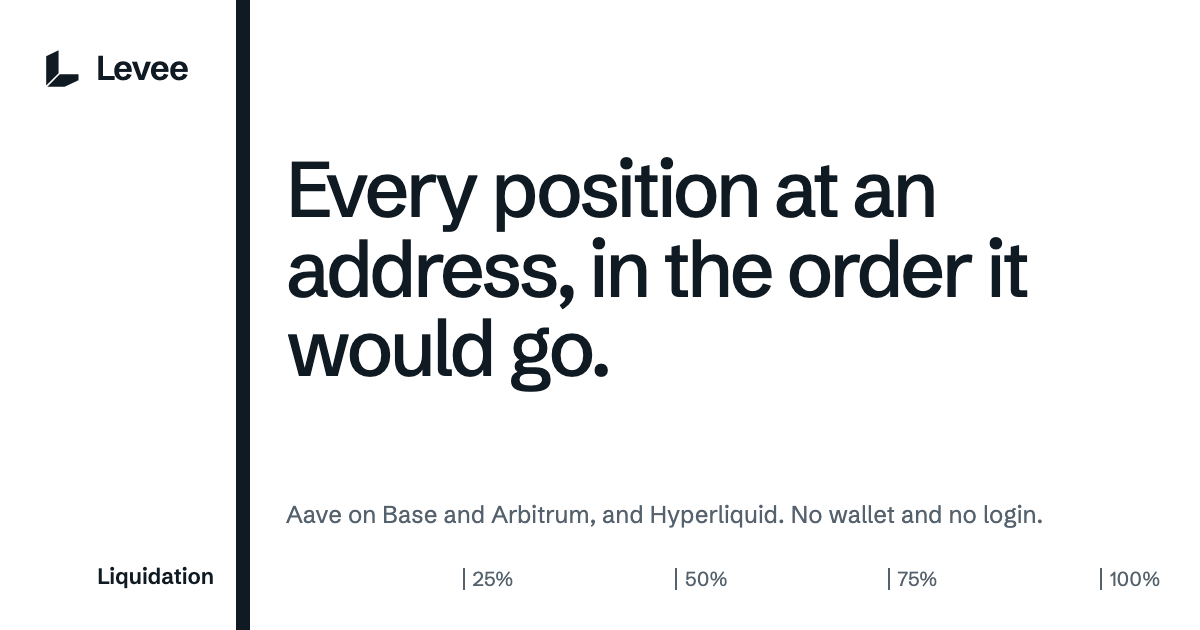
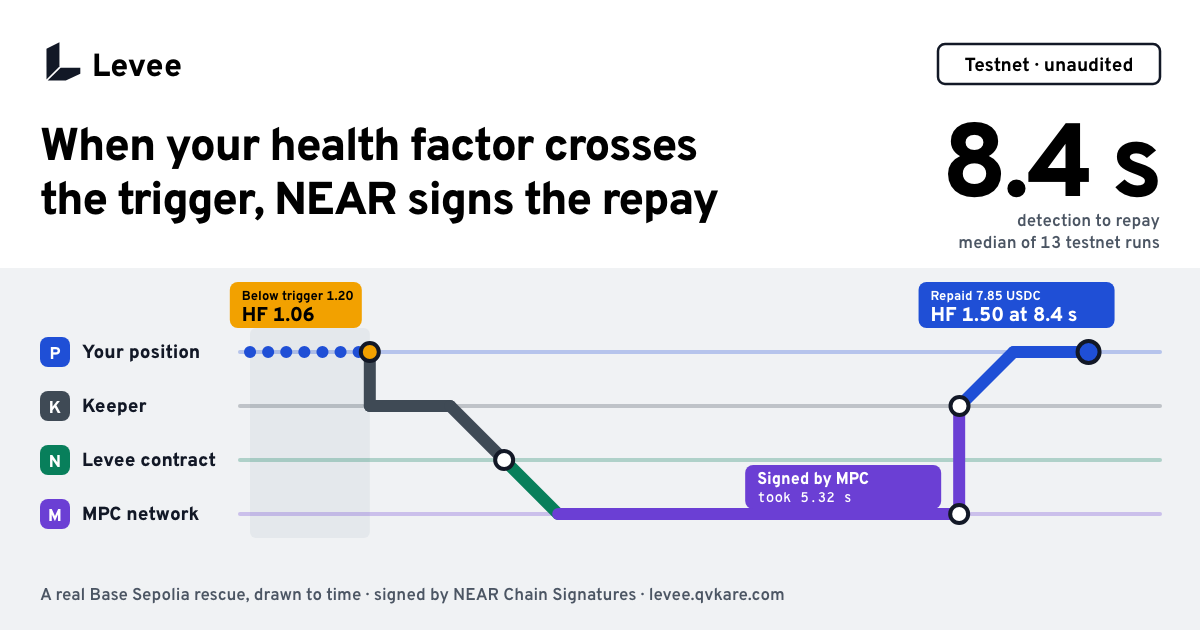
feat(web): redraw the link preview as the line
The four lanes, the route of the median run and its 8.4 s, rendered by
tools/og-image.ts from the run records. A test fails when the alt text
no longer matches the records.

diff --git a/web/tools/og-image.ts b/web/tools/og-image.ts
@@ -1,0 +1,143 @@
+/**
+ * Renders app/opengraph-image.png, the link preview, in the Hat language: the four lanes, the route
+ * of the replayed run and its time, all from the run records. Run it from web/ after the runs change:
+ *
+ *   node tools/og-image.ts            writes the page to the temp folder, and app/opengraph-image.alt.txt
+ *   PLAYWRIGHT_CORE=/path/to/playwright-core node tools/og-image.ts
+ *                                     also screenshots the HTML to app/opengraph-image.png
+ *
+ * Playwright is not a dependency of the site. Point PLAYWRIGHT_CORE at any install of playwright-core.
+ */
+import { readFileSync, writeFileSync } from "node:fs";
+import { tmpdir } from "node:os";
+import { createRequire } from "node:module";
+import { fileURLToPath } from "node:url";
+import { readProof } from "../lib/proof-read.ts";
+import { ogAlt } from "../lib/og.ts";
+
+const web = fileURLToPath(new URL("..", import.meta.url));
+const proof = readProof();
+const replay = proof.replay;
+if (!replay) throw new Error("No landed run to draw.");
+
+const font = (name: string) => readFileSync(`${web}app/fonts/${name}`).toString("base64");
+const C = { P: "#1F4FD6", K: "#3F4A55", N: "#087F5B", M: "#6B3FD4", ink: "#121826", ink2: "#4B5563", amber: "#F2A100", tint: "#F0F2F4", tint2: "#E4E8EC" };
+
+const t = { near: replay.marks.near / 1000, signed: replay.marks.signed / 1000, sent: replay.marks.sent / 1000, included: replay.marks.included / 1000 };
+const TMIN = -1.4;
+const TMAX = Math.max(Math.floor(t.included) + 1, t.included + 0.6);
+const x0 = 250;
+const x1 = 1140;
+const gap = 54;
+const y0 = 352;
+const pps = (x1 - x0) / (TMAX - TMIN);
+const X = (s: number) => x0 + (s - TMIN) * pps;
+const Y = (lane: number) => y0 + lane * gap;
+const step = gap / pps;
+const route: Array<[number, number]> = [
+  [TMIN, 0],
+  [0, 0],
+  [0, 1],
+  [t.near - step, 1],
+  [t.near, 2],
+  [t.near + step, 3],
+  [t.signed, 3],
+  [t.signed, 1],
+  [t.sent, 1],
+  [t.sent + step, 0],
+  [t.included, 0],
+];
+const colours = ["P", "K", "K", "K", "N", "M", "M", "K", "P", "P"] as const;
+const lanes = [
+  ["P", "Your position"],
+  ["K", "Keeper"],
+  ["N", "Levee contract"],
+  ["M", "MPC network"],
+] as const;
+
+const segments = route
+  .slice(0, -1)
+  .map(([ta, la], index) => {
+    const [tb, lb] = route[index + 1] as [number, number];
+    const dots = index === 0 ? ' stroke-dasharray="0.1 18"' : "";
+    return `<line x1="${X(ta)}" y1="${Y(la)}" x2="${X(tb)}" y2="${Y(lb)}" stroke="${C[colours[index] as keyof typeof C]}" stroke-width="12" stroke-linecap="round"${dots}/>`;
+  })
+  .join("");
+
+const laneLines = lanes
+  .map(([key, name], index) => {
+    const y = Y(index);
+    return `<line x1="${X(TMIN) - 10}" y1="${y}" x2="${x1 + 20}" y2="${y}" stroke="${C[key]}" stroke-opacity=".28" stroke-width="4" stroke-linecap="round"/>
+    <rect x="40" y="${y - 15}" width="30" height="30" rx="8" fill="${C[key]}"/><text x="55" y="${y + 7}" text-anchor="middle" class="b" fill="#fff" font-size="17">${key}</text>
+    <text x="82" y="${y + 6}" class="b" fill="${C.ink}" font-size="19">${name}</text>`;
+  })
+  .join("");
+
+const station = (s: number, lane: number, fill = "#fff", r = 9) => `<circle cx="${X(s)}" cy="${Y(lane)}" r="${r}" fill="${fill}" stroke="${C.ink}" stroke-width="4"/>`;
+const total = (replay.marks.included / 1000).toFixed(1);
+const p50 = ((proof.overall.p50Ms ?? 0) / 1000).toFixed(1);
+const trigger = replay.trigger?.toFixed(2) ?? "";
+
+const html = `<!doctype html><html><head><meta charset="utf-8"><style>
+@font-face{font-family:Overpass;src:url(data:font/woff2;base64,${font("overpass-latin-wght.woff2")}) format("woff2");font-weight:100 900}
+@font-face{font-family:"Overpass Mono";src:url(data:font/woff2;base64,${font("overpass-mono-latin-wght.woff2")}) format("woff2");font-weight:300 700}
+html,body{margin:0;width:1200px;height:630px;background:#fff;font-family:Overpass,sans-serif;color:${C.ink};font-feature-settings:"tnum" 1;-webkit-font-smoothing:antialiased}
+svg text{font-family:Overpass,sans-serif}.b{font-weight:800}.m{font-family:"Overpass Mono",monospace}
+</style></head><body>
+<svg width="1200" height="630" viewBox="0 0 1200 630" xmlns="http://www.w3.org/2000/svg">
+  <rect width="1200" height="630" fill="#fff"/>
+  <rect y="268" width="1200" height="362" fill="${C.tint}"/>
+  <g transform="translate(40 38) scale(0.72)"><polygon points="9,15 27,6 27,39.5 9,57.5" fill="${C.ink}"/><polygon points="28.7,41.2 56,41.2 56,49.7 35.8,59.2 10.7,59.2" fill="${C.ink}"/></g>
+  <text x="92" y="76" class="b" font-size="32">Levee</text>
+  <rect x="938" y="44" width="222" height="40" rx="7" fill="#fff" stroke="${C.ink}" stroke-width="2.5"/>
+  <text x="1049" y="71" text-anchor="middle" font-size="19" font-weight="700">Testnet · unaudited</text>
+  <text x="40" y="160" class="b" font-size="46" letter-spacing="-1.4">When your health factor crosses</text>
+  <text x="40" y="214" class="b" font-size="46" letter-spacing="-1.4">the trigger, NEAR signs the repay</text>
+  <text x="1160" y="196" text-anchor="end" class="b" font-size="104" letter-spacing="-3">${p50} s</text>
+  <text x="1160" y="226" text-anchor="end" font-size="17" font-weight="600" fill="${C.ink2}">detection to repay</text>
+  <text x="1160" y="248" text-anchor="end" font-size="17" font-weight="600" fill="${C.ink2}">median of ${proof.overall.samples} testnet runs</text>
+  <rect x="${X(TMIN)}" y="${Y(0) - 24}" width="${X(0) - X(TMIN)}" height="${Y(3) - Y(0) + 48}" rx="6" fill="${C.tint2}"/>
+  ${laneLines}
+  ${segments}
+  ${station(0, 0, C.amber)}${station(t.near, 2)}${station(t.signed, 3)}${station(t.sent, 1)}${station(t.included, 0, C.P, 11)}
+  <rect x="${X(0) - 140}" y="282" width="132" height="46" rx="8" fill="${C.amber}"/>
+  <text x="${X(0) - 128}" y="300" font-size="13" font-weight="700">Below trigger ${trigger}</text>
+  <text x="${X(0) - 128}" y="321" class="b" font-size="20">HF ${replay.healthBefore.toFixed(2)}</text>
+  <rect x="${X(t.signed) - 214}" y="${(Y(2) + Y(3)) / 2 - 22}" width="196" height="44" rx="8" fill="${C.M}"/>
+  <text x="${X(t.signed) - 202}" y="${(Y(2) + Y(3)) / 2 - 3}" class="b" font-size="16" fill="#fff">Signed by MPC</text>
+  <text x="${X(t.signed) - 202}" y="${(Y(2) + Y(3)) / 2 + 15}" class="m" font-size="14" font-weight="600" fill="#fff">took ${((replay.marks.signed - replay.marks.near) / 1000).toFixed(2)} s</text>
+  <rect x="${X(t.included) - 170}" y="282" width="196" height="46" rx="8" fill="${C.P}"/>
+  <text x="${X(t.included) - 158}" y="300" font-size="13" font-weight="700" fill="#fff">Repaid ${replay.amount}</text>
+  <text x="${X(t.included) - 158}" y="321" class="b" font-size="20" fill="#fff">HF ${replay.healthAfter.toFixed(2)} at ${total} s</text>
+  <text x="40" y="600" font-size="17" font-weight="600" fill="${C.ink2}">A real ${replay.chain} rescue, drawn to time · signed by NEAR Chain Signatures · levee.qvkare.com</text>
+</svg></body></html>`;
+
+const file = `${tmpdir()}/levee-og-image.html`;
+writeFileSync(file, html);
+writeFileSync(`${web}app/opengraph-image.alt.txt`, ogAlt(proof));
+console.log(`wrote ${file} and app/opengraph-image.alt.txt`);
+
+/** The little of Playwright this script uses. */
+interface Chromium {
+  launch(): Promise<{
+    newPage(options: { viewport: { width: number; height: number } }): Promise<{
+      setContent(html: string): Promise<void>;
+      evaluate(run: () => unknown): Promise<unknown>;
+      screenshot(options: { path: string }): Promise<unknown>;
+    }>;
+    close(): Promise<void>;
+  }>;
+}
+
+const core = process.env.PLAYWRIGHT_CORE;
+if (core) {
+  const require = createRequire(import.meta.url);
+  const { chromium } = require(core) as { chromium: Chromium };
+  const browser = await chromium.launch();
+  const page = await browser.newPage({ viewport: { width: 1200, height: 630 } });
+  await page.setContent(html);
+  await page.evaluate(() => document.fonts.ready);
+  await page.screenshot({ path: `${web}app/opengraph-image.png` });
+  await browser.close();
+  console.log("wrote app/opengraph-image.png");
+}

diff --git a/web/lib/og.ts b/web/lib/og.ts
@@ -1,0 +1,8 @@
+/** The link preview's alt text, from the same figures the image draws. tools/og-image.ts writes both. */
+import type { Proof } from "./proof-model.ts";
+
+export function ogAlt(proof: Proof): string {
+  const p50 = ((proof.overall.p50Ms ?? 0) / 1000).toFixed(1);
+  const chain = proof.replay?.chain ?? "testnet";
+  return `Levee. When your health factor crosses the trigger, NEAR signs the repay. A real ${chain} rescue drawn on four lines: your position, the keeper, the Levee contract on NEAR and the MPC network. ${p50} s from detection to repay, the median of ${proof.overall.samples} testnet runs.\n`;
+}

diff --git a/web/lib/og.test.ts b/web/lib/og.test.ts
@@ -1,0 +1,11 @@
+import assert from "node:assert/strict";
+import { readFileSync } from "node:fs";
+import { test } from "node:test";
+import { ogAlt } from "./og.ts";
+import { readProof } from "./proof-read.ts";
+
+test("the link preview states the figures the run records give", () => {
+  const alt = readFileSync(new URL("../app/opengraph-image.alt.txt", import.meta.url), "utf8");
+  // When this fails, the runs changed: render the preview again with tools/og-image.ts.
+  assert.equal(alt, ogAlt(readProof()));
+});
